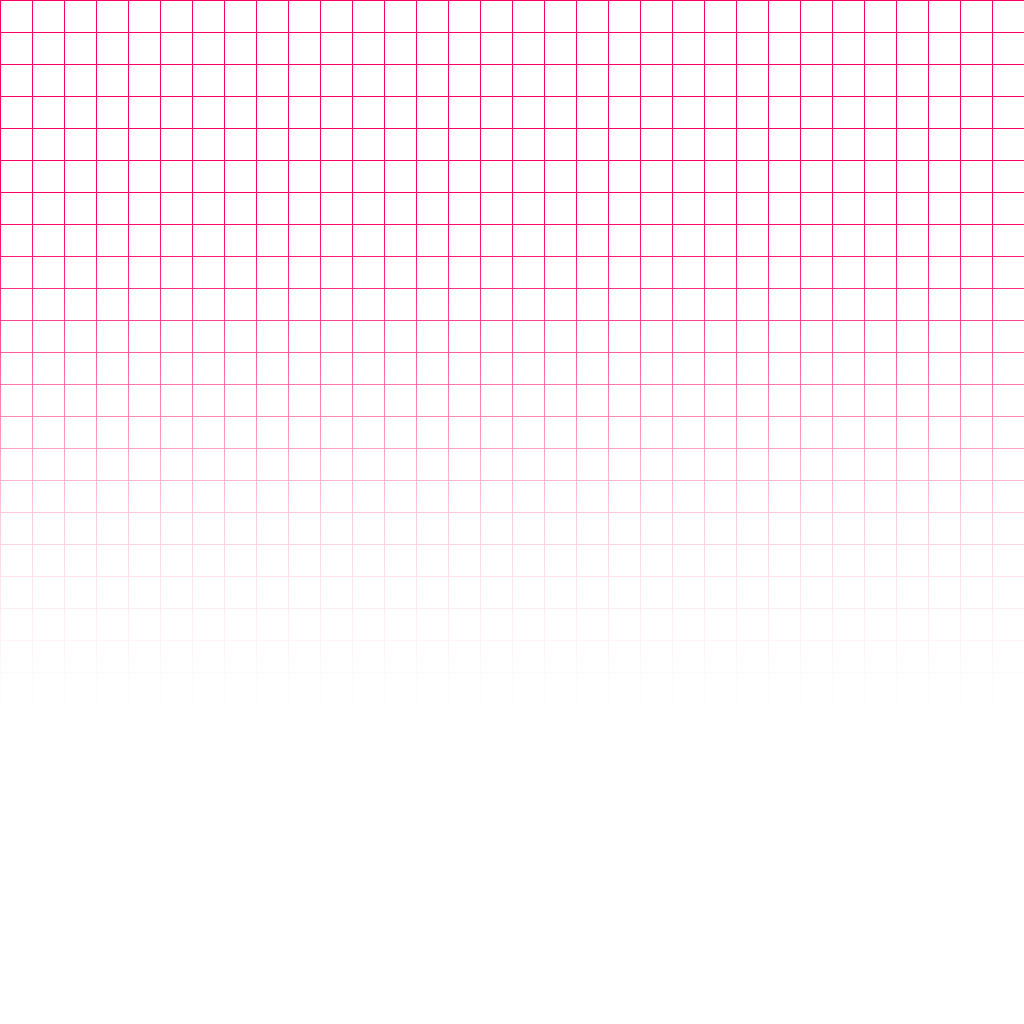
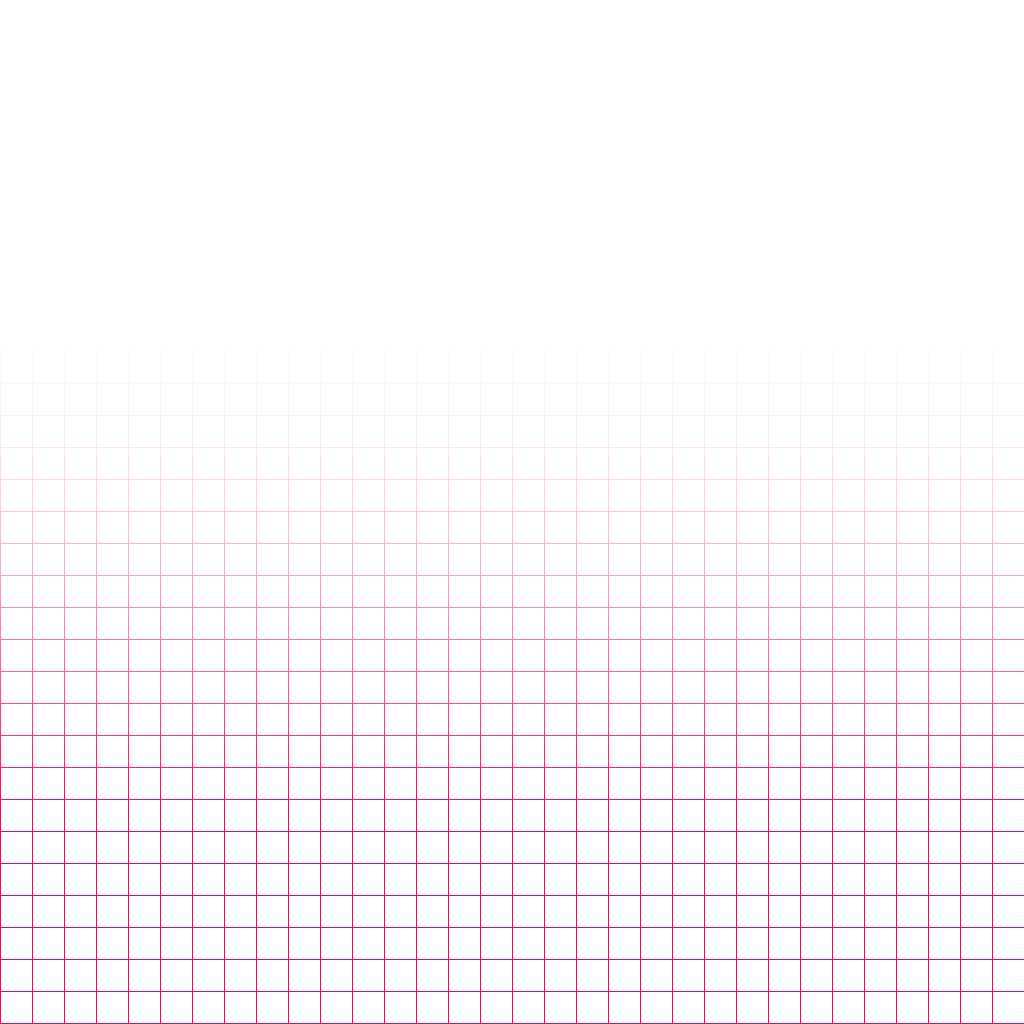
made other backdrops

diff --git a/JS/paralax.js b/JS/paralax.js
@@ -1,38 +1,156 @@
 
 var pcan=document.getElementById("paralax")
 var pctx=pcan.getContext("2d")
+var gcan=document.getElementById("grave")
+var gctx=gcan.getContext("2d")
+var dcan=document.getElementById("drapes")
+var dctx=dcan.getContext("2d")
 var grid=[]
+var gravecl=[]
+var stard=[]
+var outers=[]
+var time=0
+var speed=1
+var tarspeed=1
 for(let i = 0; i<3;i++){
     grid[i]=new Image()
     grid[i].src=`./assets/MEMORYGRID_${i}.png`
 }
+for(let i = 0; i<3;i++){
+    gravecl[i]=new Image()
+    gravecl[i].src=`./assets/GRAVE_CLOUD_${i}.png`
+}
+for(let i = 0; i<2;i++){
+    stard[i]=new Image()
+    stard[i].src=`./assets/STARDRAPES_${i}.png`
+}
+for(let i = 0; i<2;i++){
+    outers[i]=new Image()
+    outers[i].src=`./assets/OUTERSPACE_${i}.png`
+}
 function imgload(img){
     return img.complete && img.naturalWidth !== 0;
 }
-function drawgrid(img,x,y,a,t=4,topc="#ff0063"){
+function drawgrid(img,x,y,a,t=4,topc="#ff0063",flip=false,ctx=pctx){
     if(imgload(img)){
         // console.log()
-        pctx.globalAlpha=a
-        pctx.imageSmoothingEnabled = false;
-        pctx.drawImage(img,x,0+y,img.naturalWidth*t,img.naturalHeight*t)
-        pctx.fillStyle=topc
-        pctx.fillRect(0,y-100000,10000,100000)
+        ctx.globalAlpha=a
+        ctx.imageSmoothingEnabled = false;
+        var sign=1
+        if(flip){
+            sign=-1
+        }
+        ctx.drawImage(img,x,0+Math.round(y),img.naturalWidth*t,img.naturalHeight*t*sign)
+        ctx.fillStyle=topc
+        ctx.fillRect(0,Math.round(y-100000),10000,100000)
     }
 }
-function drawModBG(y){
-
+function drawModBG(z){
+    // time+=1
     fix(pctx)
 
-    drawgrid(grid[0],-50+y/100,-1000+y/4,.3)
-    drawgrid(grid[1],0-y/100,-400-y/4,.5)
-    drawgrid(grid[2],-100-y/50,-300-y/2,.9)
+    // drawgrid(grid[0],-50+z/50,-3096+z/4,.2,4,"#ff006300")
+    // drawgrid(grid[1],0-z/100,-400-z/4,.5)
+    // drawgrid(grid[2],-100-z/50,-300-z/2,.9)
+    var look=[
+        [4,-4,-2],
+        [-3096,-400,-300],
+        [.2,.5,.9]
+    ]
+    for(let x=0;x<3;x++){
+        for(let y=0;y<Math.ceil(window.innerWidth/2048)+2;y++){
+            console.log(x,(8/2^x))
+            drawgrid(
+                grid[x],
+                    -1024+
+                    (time/(8/2**x))
+                    %2048+
+                    (+2048
+                    -2048*y),
+                    
+                    look[1][x]+z/look[0][x]
+                    ,look[2][x],4,
+                "#ff006300",
+                false,
+                pctx)
+
+        }
+    }
+}
+function drawInsBG(){
+    fix(gctx)
+
+    for(let x=0;x<3;x++){
+        for(let y=0;y<Math.ceil(window.innerWidth/2048)+2;y++){
+            console.log(x,(8/2^x))
+            drawgrid(
+                gravecl[x],
+                    -1024+
+                    (time/(8/2**x))
+                    %2048+
+                    (+2048
+                    -2048*y),
+                0,1,4,
+                "#ff006300",
+                false,
+                gctx)
+
+        }
+    }
+    // drawgrid(gravecl[0],-1024+(time/8)%2048,0,1,4,"#ff006300",false,gctx)
+    // drawgrid(gravecl[0],-1024+(time/8)%2048+2048,0,1,4,"#ff006300",false,gctx)
+
+    // drawgrid(gravecl[1],-1024+(time/4)%2048-2048,0,1,4,"#ff006300",false,gctx)
+    // drawgrid(gravecl[1],-1024+(time/4)%2048,0,1,4,"#ff006300",false,gctx)
+    // drawgrid(gravecl[1],-1024+(time/4)%2048+2048,0,1,4,"#ff006300",false,gctx)
+    
+    // drawgrid(gravecl[2],-824+(time/2)%2048-2048,0,1,4,"#ff006300",false,gctx)
+    // drawgrid(gravecl[2],-824+(time/2)%2048,0,1,4,"#ff006300",false,gctx)
+    // drawgrid(gravecl[2],-824+(time/2)%2048+2048,0,1,4,"#ff006300",false,gctx)
 
 }
+function drawLauBG(){
+    fix(dctx)
+    for(let x=0;x<2;x++){
+        var pat = dctx.createPattern(outers[x], "repeat");
+        pat.setTransform(new DOMMatrix([4,0,0,4,(time*((x+10/11)))/30, x*12]));  
+        dctx.imageSmoothingEnabled = false;
+        dctx.globalAlpha=x==1?.5:.2        
+        dctx.fillStyle = pat;
+        dctx.fillRect(0, 0, window.innerWidth, window.innerHeight);
+    }
+    for(let x=0;x<2;x++){
+        for(let y=0;y<Math.ceil(window.innerWidth/2048)+2;y++){
+            drawgrid(
+                stard[x],
+                    ((time*((x+3)/4))/3)
+                    %2048+
+                    (+2048
+                    -2048*y),
+                    
+                0,1,4,
+                "#ff006300",
+                false,
+                dctx)
+
+        }
+    }
+    // dctx.fillStyle="#fff"
+    // dctx.fillRect(50,50,1000,1000)
+}
 function paratick(){
+    speed=(speed*100+tarspeed)/101
+    time+=speed
     requestAnimationFrame(paratick)
     var y=window.scrollY
     if(page=="mod"){
         drawModBG(y)
+    }
+    if(page=="ins"){
+        drawInsBG()
+    }
+    if(page=="lau"){
+        drawLauBG()
     }
     
 }

diff --git a/index.html b/index.html
@@ -179,6 +179,7 @@
         background-color: #090411;
         text-align: center;
         user-select: none;
+        z-index:11;
     }
     a{
         color:#7d60ff
@@ -233,8 +234,9 @@
         justify-content: center;
     }
     .fit{
-        max-width: 600px;
+        max-width: 500px;
         width:100%;
+        
     }
     .filehold{
         max-width: 800px;
@@ -300,6 +302,12 @@
     .transparentbg{
         background-color: #00000000;
     }
+    .GRAVE{
+        background-color: #071c1f;
+    }
+    .DRAPES{
+        background-color: #0b0113;
+    }
     .front{
         z-index: 10; 
         position: relative;
@@ -312,6 +320,15 @@
         width:calc(100% + 18px);
         height:calc(100% + 10px);
         z-index: 1;
+    }
+    .installchip{
+        background-color: #090411;
+        position: relative;
+        padding:20px;
+        border-radius: 5px;
+        border-style: solid;
+        border-color: #1d152d;
+        top:50px
     }
 </style>
 <!-- <h1 id="h">HARDHAT</h1> -->
@@ -339,9 +356,9 @@
     </div>
 </div>
 <div class = "installer" id="pagein">
-    <canvas class="canvas transparentbg" id="can1"></canvas>
+    <canvas class="canvas GRAVE" id="grave"></canvas>
     <div class="center front">
-        <div class="fit">
+        <div class="fit installchip">
             <label for="FEZ PATH">FEZ Game Path:<br></label>
             <input class="textin" id="path" type="text" name="FEZ PATH" value="loading...">
 
@@ -368,7 +385,7 @@
 <br><br><br><br><br><br>
 </div>
 <div class = "launcher hidden" id="pagela">
-    <canvas class="canvas transparentbg" id="can2"></canvas>
+    <canvas class="canvas DRAPES" id="drapes"></canvas>
     <div class="front">
         <button class="launch" id="FEZ">
             <img class="" src="./assets/FEZ.png"><p>unmodified game</p>

diff --git a/JS/logs.js b/JS/logs.js
@@ -29,6 +29,7 @@ window.electronAPI.onLog((text) => {
                 running=true
                 // start.style.display="none"
                 logstat.style.color="#c8bfd8"
+                tarspeed=15
                 break
             case("-clear"):
                 log.innerHTML=""
@@ -37,16 +38,19 @@ window.electronAPI.onLog((text) => {
                 logstat.style.color="#e1aaaa"
                 start.style.display="block"
                 running=false
+                tarspeed=1
                 break
             case("-finish"):
                 logstat.style.color="#aae1aa"
                 start.style.display="block"
                 running=false
+                tarspeed=1
                 break
             case("-stop"):
                 // logstat.style.color="#aae1aa"
                 start.style.display="block"
                 running=false
+                tarspeed=1
                 break
             case("-path"):
                 // logstat.style.color="#aae1aa"
